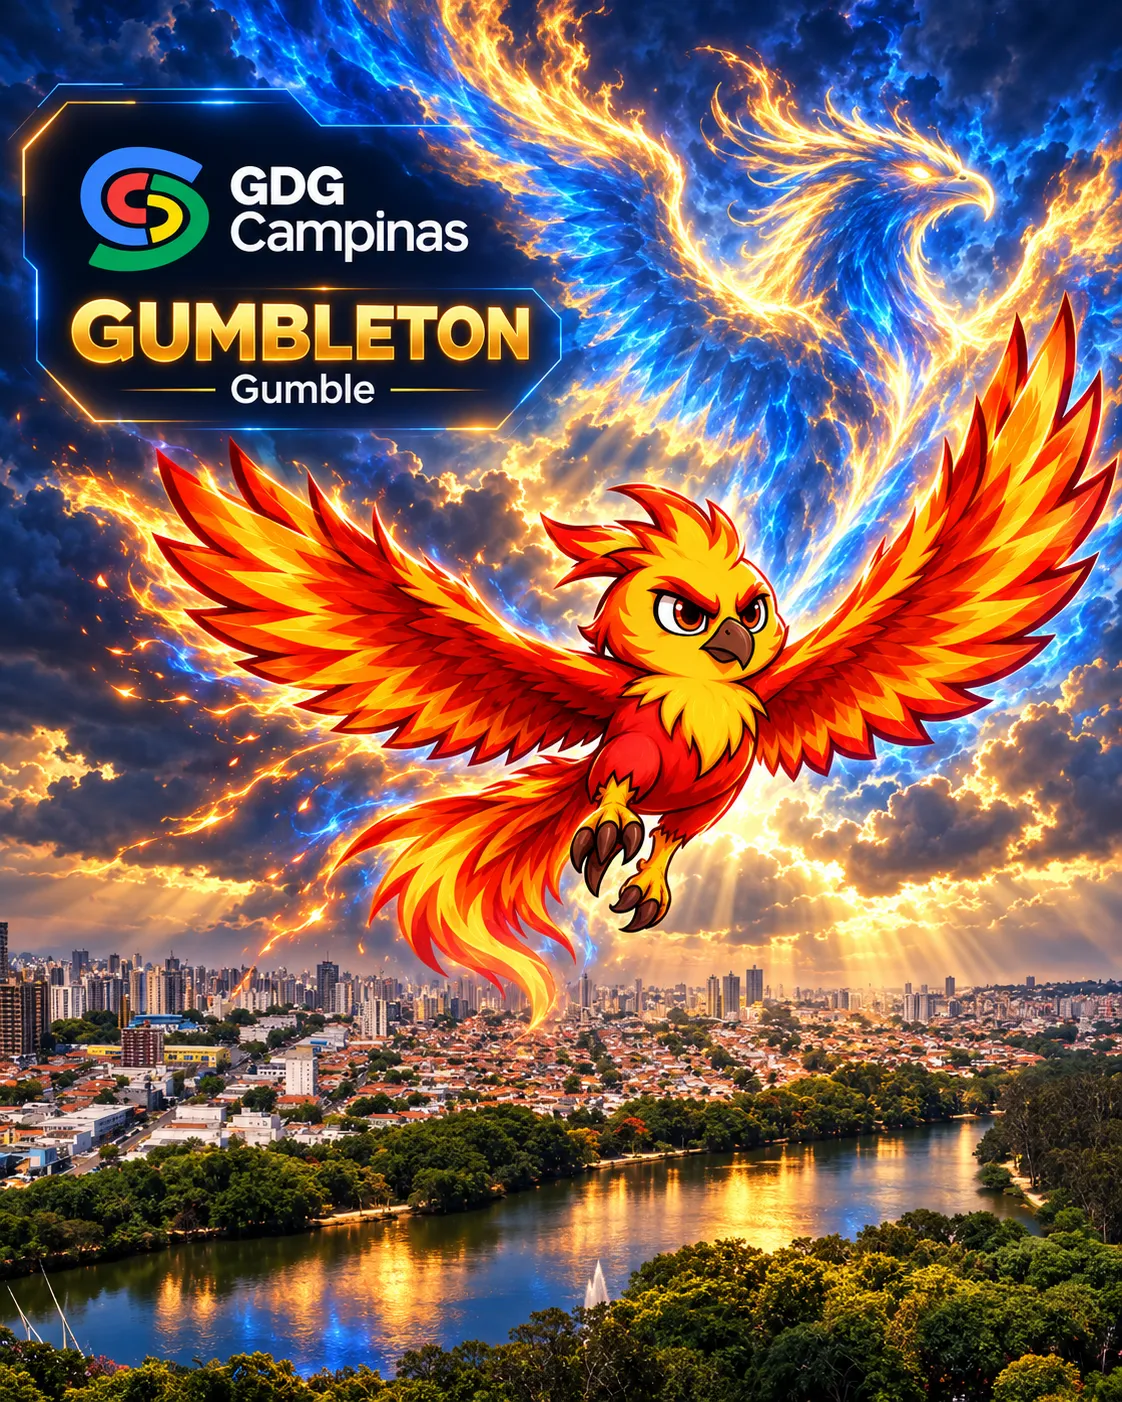
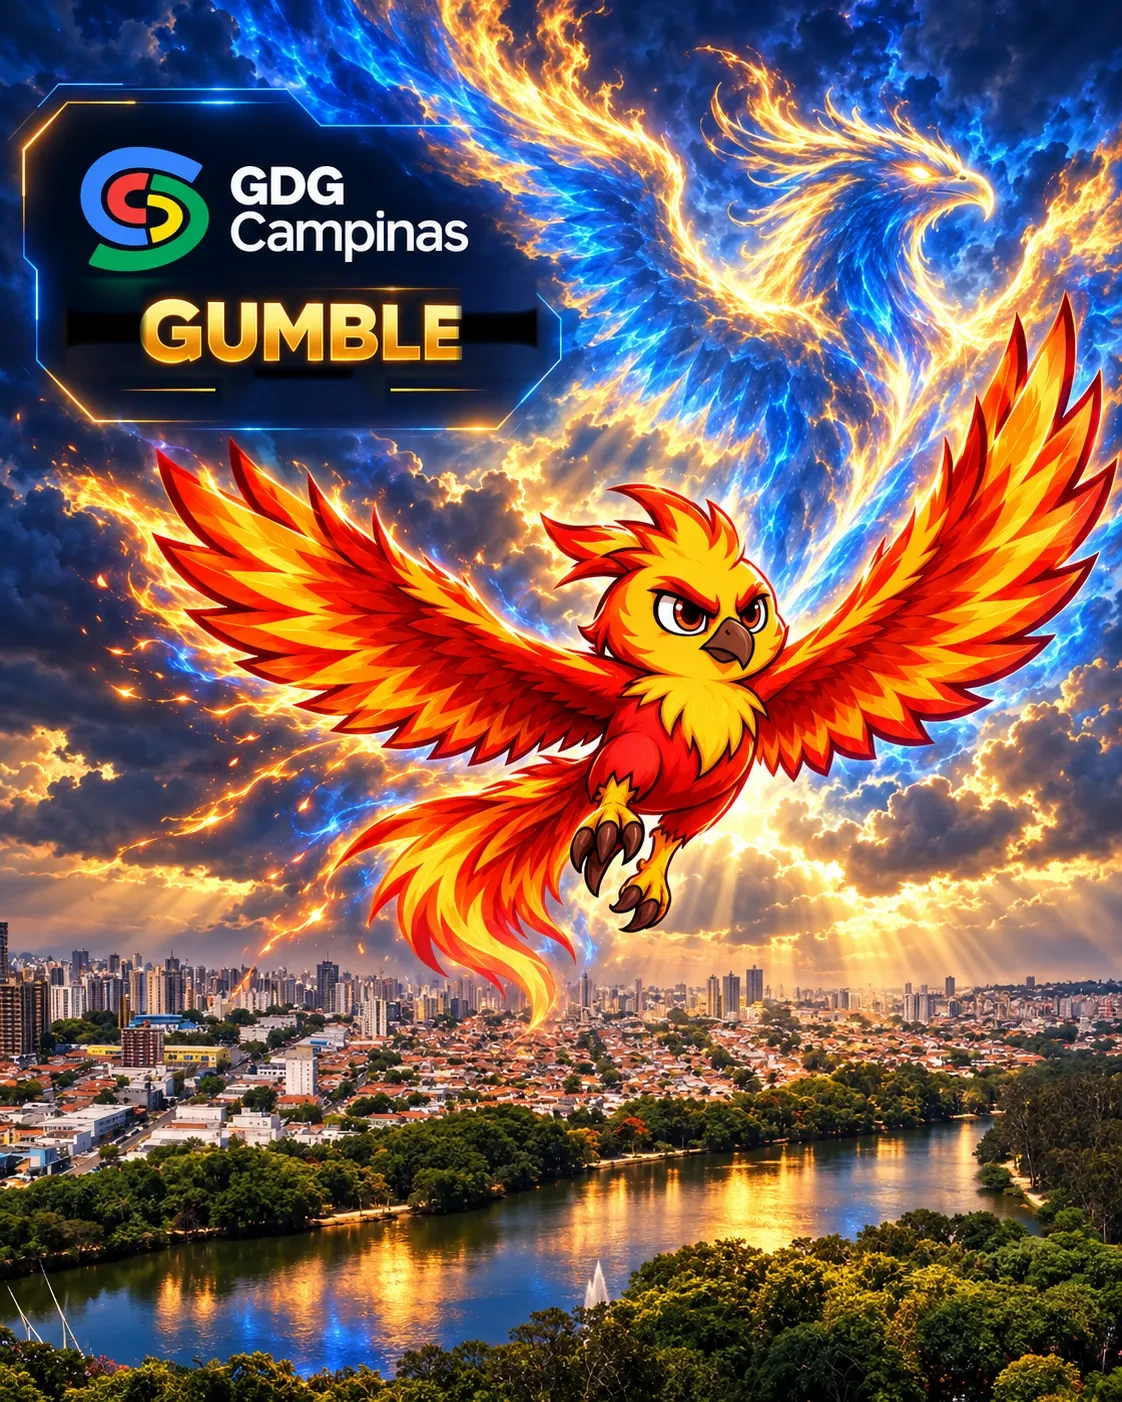
Replace the old mascot name drawn inside the Gumble art on the big screen

Changed region(s): [[0.0624, 0.184, 0.4991, 0.3067]]

diff --git a/docs/js/data/mural-arts.js b/docs/js/data/mural-arts.js
@@ -8,7 +8,7 @@
  *           pra direita, mostra a fênix e esconde o logo por inteiro, em vez de deixá-lo cortado pela metade), por forma de tela ("ultrawide", "wide", "standard", "tall"; `default` vale pras que faltarem): "x% y%"
  * As formas vêm de features/mural-stage.js (data-shape do palco). Arquivos em assets/img/mural-art-*.webp.
  */
-const MURAL_ARTS_VERSION = 1;
+const MURAL_ARTS_VERSION = 2;
 const muralArtFile = name => `assets/img/mural-art-${name}.webp?v=${MURAL_ARTS_VERSION}`;
 
 const MURAL_ARTS = {

diff --git a/docs/telao.html b/docs/telao.html
@@ -59,7 +59,7 @@
 <script src="js/data/sponsors.js?v=42"></script>
 <script src="js/data/raffle-confetti.js?v=1"></script>
 <script src="js/data/mural-config.js?v=17"></script>
-<script src="js/data/mural-arts.js?v=3"></script>
+<script src="js/data/mural-arts.js?v=4"></script>
 <script src="js/data/brand.js?v=3"></script>
 <script src="js/data/mural-albums.js?v=4"></script>
 <script src="js/data/wall-config.js?v=4"></script>

diff --git a/DevFestIA/handoff/HANDOFF_CURRENT.md b/DevFestIA/handoff/HANDOFF_CURRENT.md
@@ -56,6 +56,7 @@
 83. **ACERVO 2016 A 2019 LIBERADO EM PROD (2026-11-21, "pode liberar o acervo em PROD"):** `HISTORY_CONFIG.archivePublic: true` (`data/history-config.js`): as ~90 fotos novas, os 3 marcos (2017, 2018, 2019), o filtro e o telão (cena "10 anos de DevFest" passa por 117 fotos em 15 páginas) valem pra todo mundo. Pra esconder de novo: `archivePublic: false`. Teste ajustado (a regra é testada com `archivePublic: false`).
 89. **SELO REDONDO NO SITE, OPÇÃO B, SÓ EM DEV (2026-11-21, pedido do Renato):** o mesmo medalhão do telão à ESQUERDA da pílula "17 anos de GDG Campinas · 10 anos de DevFest" (a pílula mantém o texto), na mesma linha, em todas as páginas com cabeçalho, clicável (leva a `historia.html`, `data-track-event="anniversary_seal"`). `anniversaryHeaderMarkup` (`components/anniversary-badge.js`) + `components/anniversary-seal.js` (carregado em toda página, antes do badge; teste `page-scripts` exige) + `initAnniversaryBadge` (`features/anniversary.js`). CHAVE: `ANNIVERSARY_CONFIG.siteSeal.public` (false = só modo DEV; true libera). CSS em `styles.css` (`.anniversary.has-seal`, `.anniversary-seal`, um brilho que passa uma vez ao abrir, só sem `prefers-reduced-motion`; 58 px no celular). Para ver: `/DEV/index.html`.
 90. **CORREÇÃO DO TEXTO CORTADO NO SELO (2026-11-21, pedido do Renato):** "DEVFEST CAMPINAS" no arco de cima passava do comprimento do arco e perdia o começo; agora corpo 9 com espaçamento .8 (medido no navegador: texto 102 num arco de 117) e um teste que estima a largura. Vale pro selo do telão e do site (mesmo componente `components/anniversary-seal.js`).
+94. **ARTE DO GUMBLE NO TELÃO SEM O NOME ANTIGO (2026-11-21, pedido do Renato: "alterar a palavra Gumbleton por Gumble no telão e em todo o site"):** nos textos já estava feito (item 91), mas a imagem `assets/img/mural-art-gumbleton.webp` (cena `arte-gumbleton`) trazia "GUMBLETON" e o subtítulo "Gumble" DESENHADOS no painel. Editei a imagem: as 6 primeiras letras da palavra original ("GUMBLE", mesmo estilo dourado) ficaram centralizadas no painel, o resto da palavra e o subtítulo repetido saíram e o fundo foi continuado por interpolação; `MURAL_ARTS_VERSION` subiu pra furar o cache do telão. O original ficou só na máquina do desenvolvedor (não está no repo). Se o Renato tiver a arte oficial nova, é só trocar o arquivo. Conferido: nenhum "Gumbleton" em texto de js/html no ar.
 93. **SELO REDONDO DO SITE AGORA AO LADO DO LOGO DO GDG (2026-11-21, pedido do Renato: "fica melhor ali do lado do logo, no mobile fica todo quebrado"):** no celular o selo ficava sozinho acima da pílula. Agora `showAnniversarySeal` (`features/anniversary.js`, chamado em `app.js` logo depois de `renderBrand`) coloca o link do selo DENTRO do `#brand`, depois do logo do GDG Campinas (50 px, 46 px até 480 px de largura); a pílula volta a ser só a pílula. `anniversaryHeaderMarkup` virou `anniversarySealLinkMarkup`; saiu o CSS `.anniversary.has-seal`. Mesma chave `siteSeal.public`.
 92. **LIBERADO EM PROD: SELO NO SITE, SELO NO TELÃO, LOGOS NO RODAPÉ E HISTÓRIA COMPLETA NO TELÃO (2026-11-21, "pode liberar o selo no site em PROD e as alterações que fizemos aqui"):** quatro chaves viraram `true`: `ANNIVERSARY_CONFIG.siteSeal.public` e `.telaoSeal.public` (`data/anniversary.js`), `TELAO_FOOTER_CONFIG.bracketsPublic` (`data/brand.js`) e `HISTORY_CONFIG.storyPublic` (`data/history-config.js`; liga as cenas `historia-evento`, `historia-marco`, `historia-destaque`, `historia-completa` e `historia-completa-fora` e desliga o mosaico antigo `historia`). Pra esconder de novo é só voltar a chave pra `false`. Os testes agora afirmam "liberado em produção" e testam a regra com a chave desligada. Ensaios `?selo=1`, `?logos=1` e `?cenas=...` seguem valendo.
 91. **O MASCOTE AGORA SE CHAMA SÓ "GUMBLE" (2026-11-21, pedido do Renato: "vamos começar a chamar nosso mascote somente de Gumble"):** todo texto (telas, telão, alt, rótulos, comentários, testes e docs) trocou "Gumbleton" por "Gumble" (46 trocas em 24 arquivos, inclusive o título dos fundos de tela no telão: "O Gumble agora mora no seu celular"). NOMES INTERNOS NÃO MUDAM: `assets/img/gumbleton.png`, `mural-art-gumbleton.webp`, o id da arte `gumbleton` e da cena `arte-gumbleton` (renomear arquivo/id quebra caminho e histórico sem ganho). Imagens com texto desenhado dentro (fundos de tela, artes) podem ainda dizer Gumbleton: conferir com o Renato. Em texto NOVO: sempre "Gumble".
